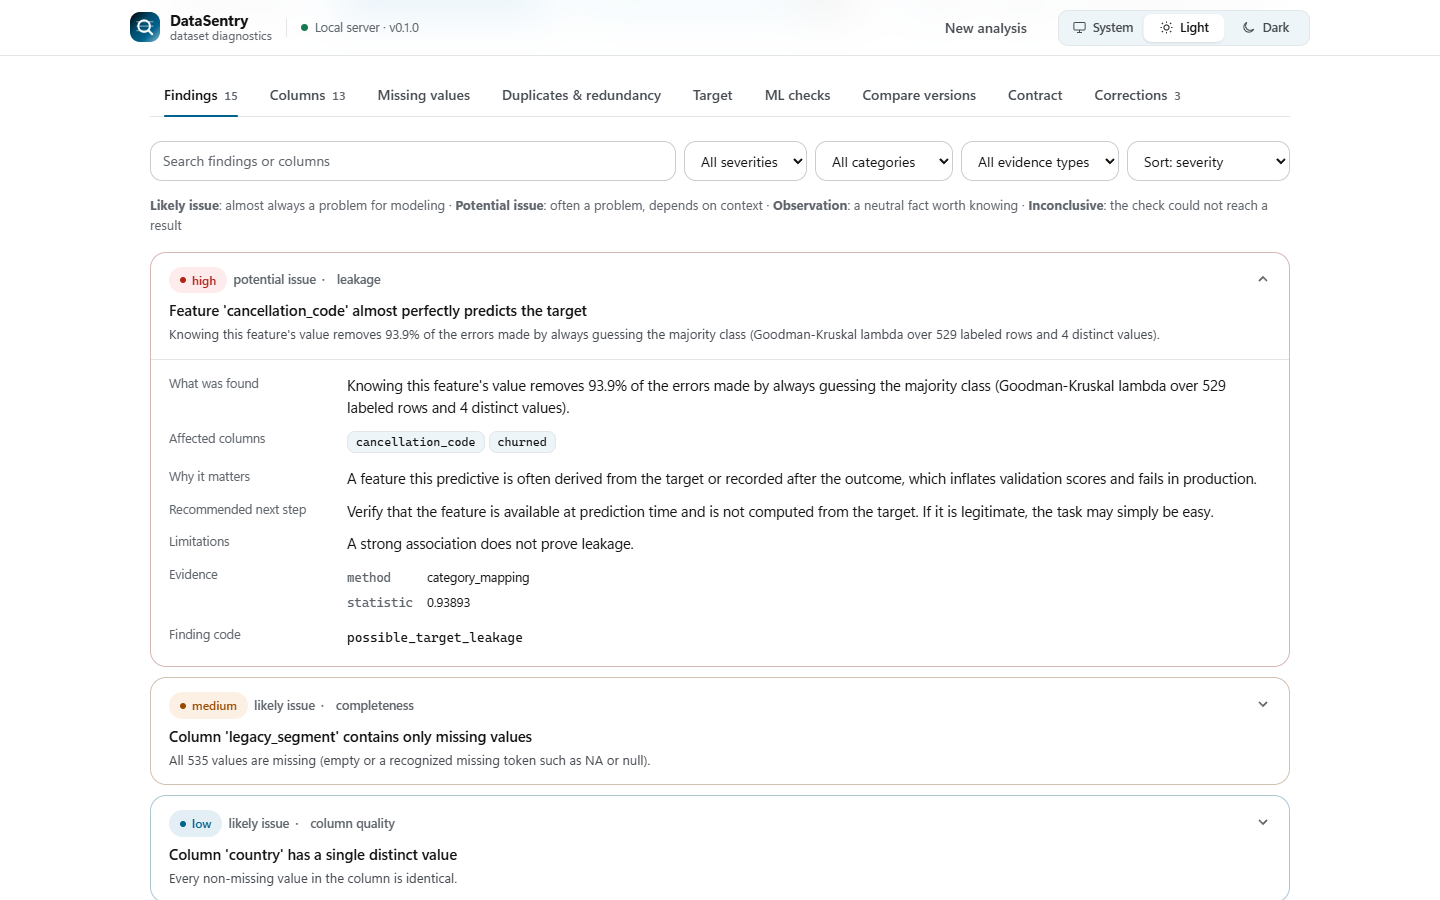
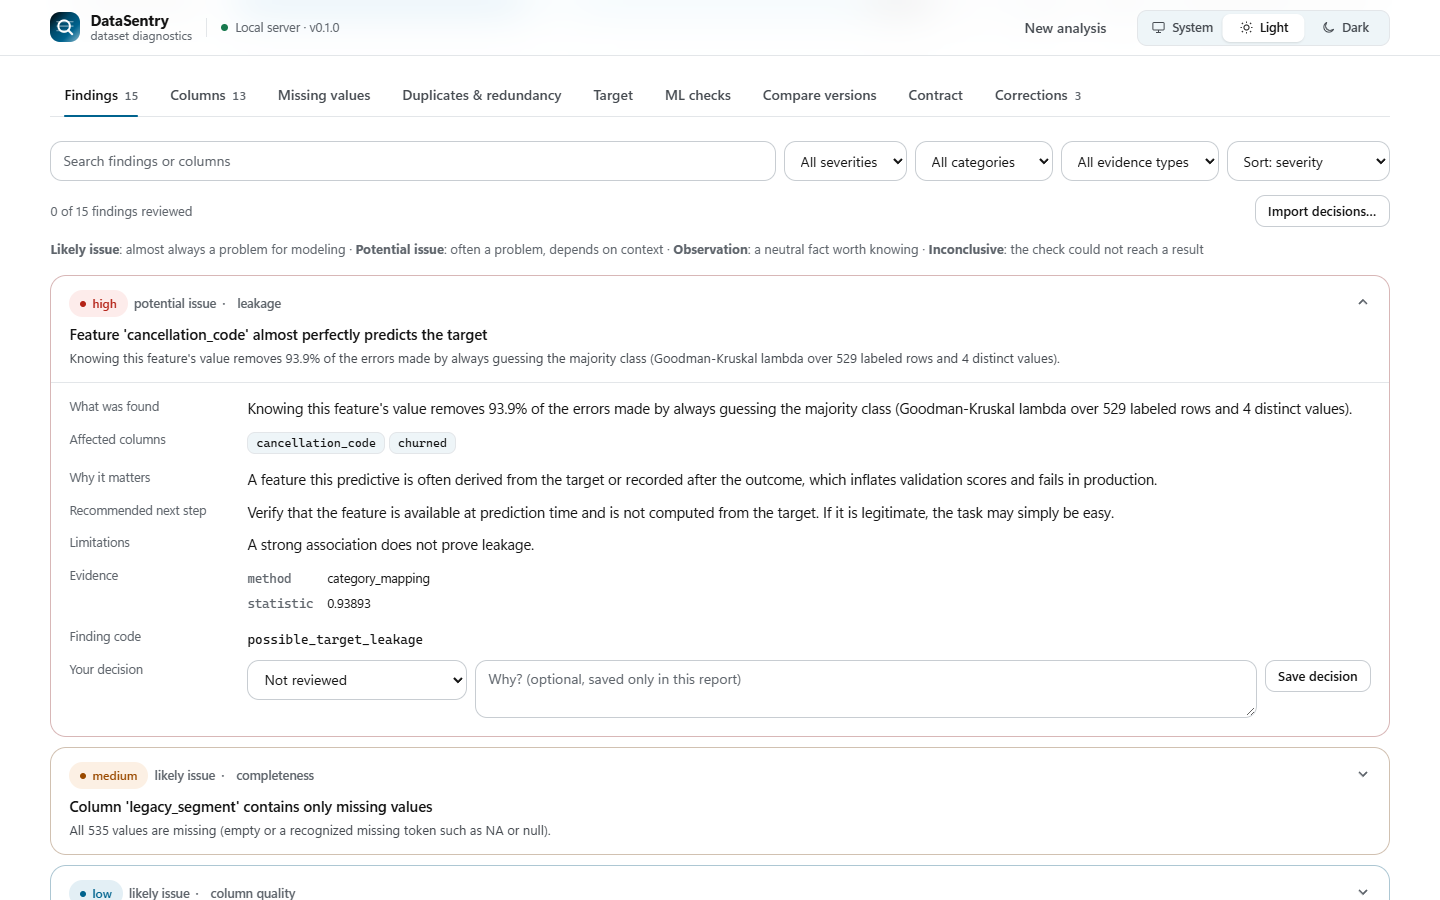
Refresh the README after phases 0-11
- Badges: a CI badge (green on main) and scikit-learn labelled
  "ML checks".
- Capabilities: a Command line row; Interface and Reports rows reflect
  the new tabs, wide layout and review decisions.
- Repository layout lists the CLI, the six newer services, the optional
  requirements file, the frontend and browser tests and CI.
- Guided tour covers review decisions, Split Doctor, Model impact,
  Compare versions, Contract and the datasheet draft.
- A Hosting note: the app needs its Python server, cannot run on a
  static host such as GitHub Pages, and should stay on 127.0.0.1.
- Architecture diagram redrawn with all 15 services, the CLI, the
  optional Cleanlab extra and the datasheet and contract outputs.
- README screenshots recaptured from the current app.

diff --git a/README.md b/README.md
@@ -15,12 +15,13 @@ informed corrections before model training.
 ![Python 3.12+](https://img.shields.io/badge/python-3.12%2B-00638E?logo=python&logoColor=white)
 ![FastAPI](https://img.shields.io/badge/FastAPI-backend-0f1b3d?logo=fastapi&logoColor=white)
 ![pandas](https://img.shields.io/badge/pandas-profiling-0f1b3d?logo=pandas&logoColor=white)
-![scikit-learn](https://img.shields.io/badge/scikit--learn-label%20review-0f1b3d?logo=scikitlearn&logoColor=white)
+![scikit-learn](https://img.shields.io/badge/scikit--learn-ML%20checks-0f1b3d?logo=scikitlearn&logoColor=white)
+[![CI](https://github.com/lloydaq/DataSentry/actions/workflows/ci.yml/badge.svg?branch=main)](https://github.com/lloydaq/DataSentry/actions/workflows/ci.yml)
 ![Tested with pytest](https://img.shields.io/badge/tested%20with-pytest-0f1b3d?logo=pytest&logoColor=white)
 ![Runs locally](https://img.shields.io/badge/runs-locally%2C%20no%20cloud-00638E)
 [![License: MIT](https://img.shields.io/badge/license-MIT-00638E)](LICENSE)
 
-[Quick start](#quick-start) · [Capabilities](#key-capabilities) · [How it works](#how-it-works) · [API](#api-reference) · [Methodology](#diagnostic-methodology) · [Security](#security-and-privacy)
+[Quick start](#quick-start) · [Capabilities](#key-capabilities) · [How it works](#how-it-works) · [CLI](#command-line-quality-gate) · [API](#api-reference) · [Methodology](#diagnostic-methodology) · [Security](#security-and-privacy)
 
 </div>
 
@@ -82,8 +83,9 @@ number. Instead it reports each category separately and says which checks did no
 | **Review log** | Mark each finding *acknowledged*, *accepted risk* or *fixed upstream* with a short note; decisions stay in your browser tab, travel inside the exported JSON and HTML reports, and can be imported back from a JSON report. Nothing is stored on the server |
 | **Model impact (opt-in)** | Measures what problems cost a model on this dataset: the label-review model is trained with and without the features the leakage screen flagged, with and without copies of test rows in training, and with 5%, 10% and 20% of training labels flipped, each scored on the same held-out test set for five fixed seeds; per-seed scores, mean and spread, reproducible run to run |
 | **Approved corrections** | Remove unlabeled rows, exact duplicates or empty/constant/copied columns, only after explicit approval, applied to a copy, with an audit record |
-| **Reports** | Strict JSON and a self-contained, script-free HTML report |
-| **Interface** | Drag-and-drop upload, filterable findings, column explorer, light / dark / system themes, keyboard support, responsive layout |
+| **Reports** | Strict JSON and a self-contained, script-free HTML report, including any review decisions |
+| **Command line** | `python -m app.cli check` runs the same analysis without a server and fails a CI step when findings reach a threshold you choose |
+| **Interface** | Drag-and-drop upload, filterable findings, column explorer, tabs for ML checks, version comparison, contracts and corrections, light / dark / system themes, keyboard support, responsive layout that uses wide screens |
 
 <table>
   <tr>
@@ -117,7 +119,7 @@ number. Instead it reports each category separately and says which checks did no
 </p>
 
 The services in `app/services/` are plain Python with no web framework imports, so every diagnostic
-can be tested without HTTP. A request flows as `routes.py` (byte-capped upload) → `loader.load_csv`
+can be tested without HTTP, and the command-line gate (`app/cli.py`) reuses them without a server. A request flows as `routes.py` (byte-capped upload) → `loader.load_csv`
 (validation) → `analysis.run_analysis` (profiling, target and findings stages) → a Pydantic
 `AnalysisResult`. If one stage fails, the result is marked `partial` and names the missing checks
 instead of pretending the analysis was complete.
@@ -135,21 +137,31 @@ app/
   models/
     schemas.py         Pydantic response contracts (strict JSON: no NaN/Infinity)
   services/            Pure Python; no FastAPI imports
-    loader.py          CSV validation and parsing; DatasetError for expected, user-safe failures
-    profiler.py        Types, missing values, duplicates, numeric/categorical stats, redundancy
+    loader.py          CSV validation and parsing options; DatasetError for user-safe failures
+    profiler.py        Types, missing values, exact and near-duplicates, stats, redundancy
     target.py          Target task inference, class distribution, label conflicts
-    leakage.py         Target-leakage screen and train/test overlap
+    leakage.py         Target-leakage screen; train/test overlap with entity and time checks
     findings.py        Rules that turn observations into findings; qualitative summary
     analysis.py        Orchestrates stages; a failing stage marks the result "partial"
-    label_review.py    Opt-in cross-validated label review (scikit-learn)
+    splits.py          Split Doctor: split-strategy advice from target, entity and time columns
+    diff.py            Dataset diff between two versions (schema, rows, KS/PSI shift, findings)
+    contract.py        Data contracts: export, strict parsing, per-value checks
+    datasheet.py       Datasheet draft with source paths; person-only questions left empty
+    modeling.py        The shared baseline model (feature selection, leak-free pipeline)
+    label_review.py    Opt-in cross-validated label review; optional Cleanlab
+    experiments.py     Opt-in model-impact experiments (leakage, duplicates, label noise)
     corrections.py     Proposed corrections and approved, audited application
-    report.py          JSON report document and escaped HTML rendering
+    report.py          JSON report document, review decisions and escaped HTML rendering
+  cli.py               Command-line quality gate (exit codes 0/1/2/3)
 frontend/              index.html, style.css, app.js, theme.js (no build step)
 sample_data/           Synthetic demo datasets (see sample_data/README.md)
 scripts/               generate_sample_data.py (deterministic, seed 42)
-tests/                 pytest suite (unit, API integration, security boundaries, determinism)
+tests/                 pytest suite, Node frontend unit tests (tests/frontend), browser smoke test (tests/e2e)
 docs/                  README artwork and screenshots
 reports/               Reserved for report artifacts (nothing is written here automatically)
+requirements.txt       Pinned runtime and test dependencies
+requirements-optional.txt  Optional extras (Cleanlab); never required
+.github/workflows/     CI: tests without the extras, then with them
 ```
 
 </details>
@@ -196,8 +208,8 @@ probabilities that a problem exists.
 ## Quick start
 
 **Prerequisites:** Python 3.12 or newer (the pinned NumPy 2.5.4 requires it; development and
-testing used Python 3.14.4 on Windows 11), and a modern browser. Node.js is optional, only for the
-JavaScript syntax checks.
+testing used Python 3.14.4 on Windows 11), and a modern browser. Node.js 22 or newer is optional,
+only for the frontend tests.
 
 ```powershell
 # Windows PowerShell, from the repository root
@@ -228,11 +240,17 @@ UI loads its assets from a CDN; DataSentry itself does not).
    why `cancellation_code` looks like leakage, and why that is not proof.
 3. Click a column chip such as `age` to open its distribution, outlier candidates and related
    findings.
-4. On **ML checks**, run **Label review**, then **Use sample holdout** to find the 20 holdout rows
-   copied from the training file.
-5. On **Corrections**, select changes, read their implications, tick the approval box and apply.
+4. Expand a finding and record **Your decision** (for example *accepted risk* with a note). The
+   decision travels with the reports you download and can be imported back later.
+5. On **ML checks**, run **Label review**, then **Use sample holdout** to find the 20 holdout rows
+   copied from the training file. In **Split Doctor**, choose `customer_id` and `signup_date` for
+   split advice; run **Model impact** to see what `cancellation_code` and the duplicates do to a
+   model's score.
+6. On **Compare versions**, click **Use sample holdout** to compare two exports; on **Contract**,
+   download a contract and check a file against it.
+7. On **Corrections**, select changes, read their implications, tick the approval box and apply.
    Download the corrected CSV and its audit record, or analyze the corrected copy.
-6. Download the HTML or JSON report.
+8. Download the HTML or JSON report, or a **Datasheet draft** to start the dataset's documentation.
 
 The planted issues are listed in [`sample_data/README.md`](sample_data/README.md). Regenerate the
 samples with `python scripts/generate_sample_data.py`; the output is byte-for-byte reproducible.
@@ -256,6 +274,13 @@ inline styles. Leave it unset in normal use.
 
 Indicative timings from one development machine: a 7.4 MB file with 200,000 rows and 7 columns
 loads in about 0.2 s and is analyzed in about 3 s; label review on 20,000 rows takes about 1 s.
+
+### Hosting
+
+DataSentry is a local application: the analysis runs in the Python server, so it needs `uvicorn`
+(or another Python host) and cannot run on a static host such as GitHub Pages. It has no
+authentication and accepts uploads, so keep it bound to `127.0.0.1` as shown; exposing it on a
+network or the internet is not a supported deployment.
 
 ## Running tests
 
